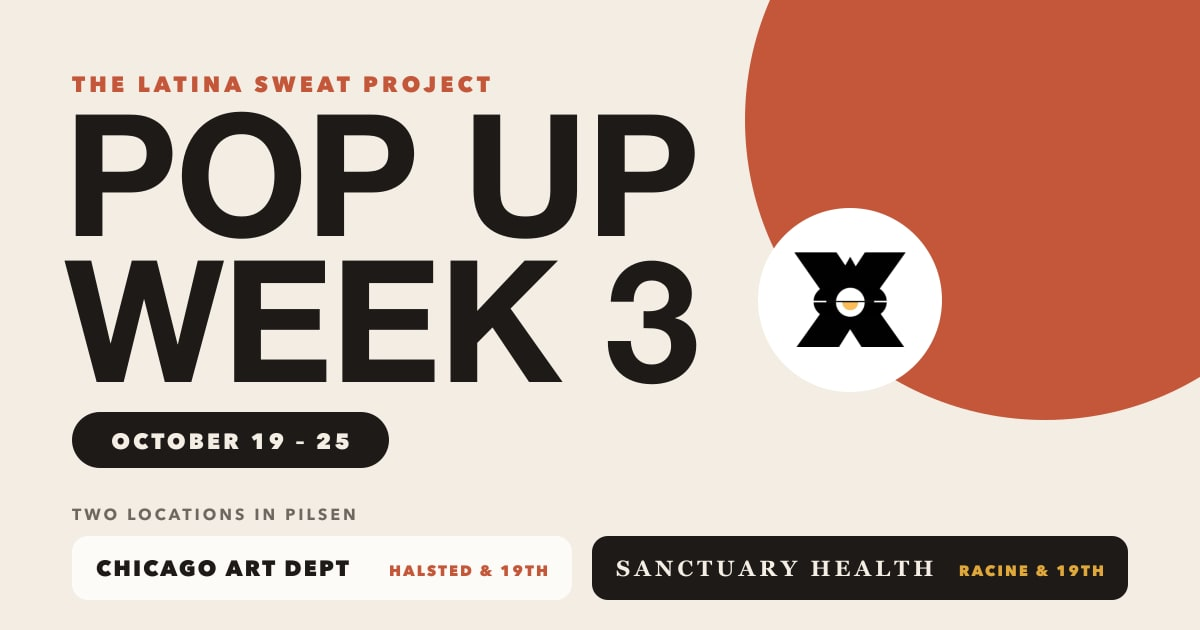
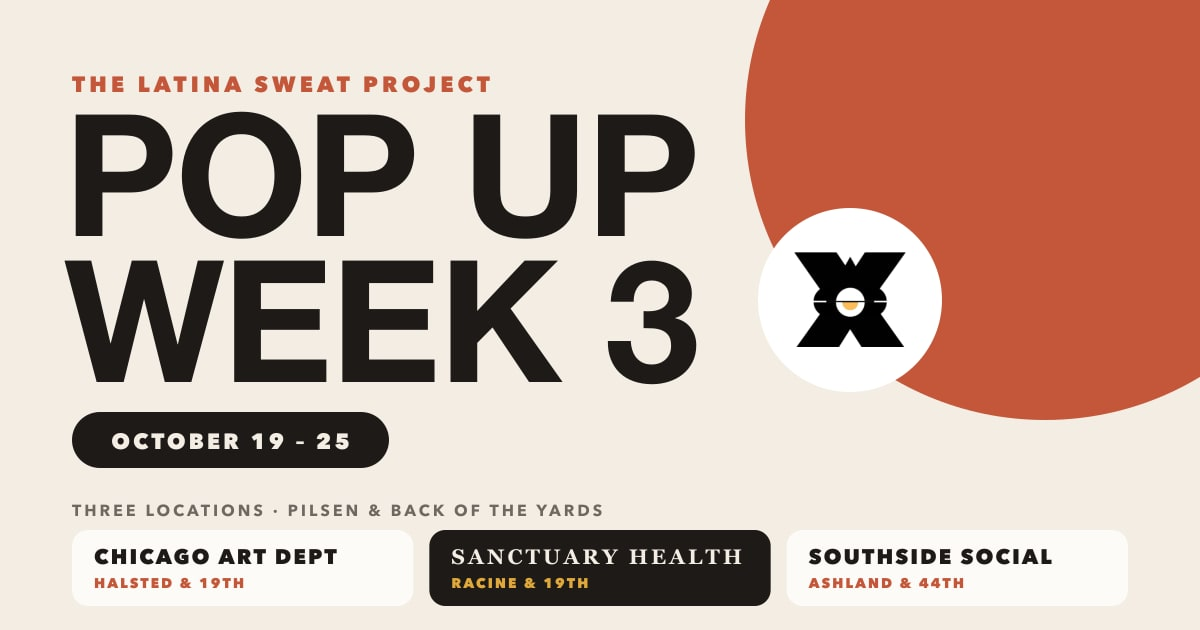
Pop-ups: publicized on every relevant surface (events, nav, /links, headline, Week 3 share image)
- Week 3 headline "LSP Pop Up · Pilsen & Back of the Yards" (data); /popup hero
  headline + body flip per week in the browser; /links reads week.headline
- PopUpWeekBand: later weeks say "This week LSP is pop-up"; new "Coming up"
  line to the next week (/popup?week=N), also on the /links card
- Homepage events carousel leads with the current Pop Up week card
- Nav "Pop-Ups" (desktop), "Pop-Up Classes" (mobile menu, footer) while active
- /finishline: past jump buttons hide; closing band points to /popup
- /links Spanish dates month-aware (Week 4: 26 Oct – 1 Nov, Dom 1 Nov)
- "around Pilsen" -> "around Pilsen and nearby"; default meta drops "Free"
- render-popup-og.mjs three-venue row; og-popup-week3.jpg regenerated
- About New Chapter line links to /popup; design.md note

Changed region(s): [[0.0617, 0.7841, 0.9558, 0.9651], [0.0617, 0.8746, 0.3083, 0.9349]]

diff --git a/src/data/transition.js b/src/data/transition.js
@@ -71,7 +71,7 @@ export const studioTransition = {
     heading: "Where to move with us",
     body:
       "This fall, LSP is popping up across the neighborhood: classes and " +
-      "community programming around Pilsen. Reserve your spot for each " +
+      "community programming around Pilsen and nearby. Reserve your spot for each " +
       "class below.",
     // Shown once every dated pop-up has wrapped (and as the closing line
     // while they are live), so the section never reads as an empty box.
@@ -79,7 +79,7 @@ export const studioTransition = {
     moreLineTail: "on Instagram for new dates and locations.",
     pastBody:
       "This fall, LSP is popping up across the neighborhood: classes and " +
-      "community programming around Pilsen.",
+      "community programming around Pilsen and nearby.",
     instagramHandle: "@latinasweatproject",
     instagramUrl: "https://www.instagram.com/latinasweatproject/",
   },

diff --git a/src/data/popUpWeek3.js b/src/data/popUpWeek3.js
@@ -37,6 +37,9 @@ export const popUpWeek3 = {
   ogImage: "images/popup/og-popup-week3.jpg",
   ogImageAlt:
     "Pop Up Week 3, October 19 – 25: LSP classes at Chicago Art Department and Sanctuary Health in Pilsen and Southside Social in Back of the Yards.",
+  // Week 3 reaches Back of the Yards (Southside Social), so the headline
+  // names both neighborhoods; every surface reads week.headline.
+  headline: "LSP Pop Up · Pilsen & Back of the Yards",
   // Week 1's body says "Two locations"; this week has three.
   body:
     "Programming at our studio is paused, so this week the classes come to the " +

diff --git a/design.md b/design.md
@@ -248,6 +248,7 @@ Campaign identity for LSP's pop-up classes after the 949 W 16th St studio closed
 - **Week switcher (Oct 7, 2026; replaces the stacked weeks):** `src/components/PopUpWeekSwitcher.astro` renders one `PopUpWeekSchedule` panel per entry of `popUpWeeks` (past weeks included) and shows ONE at a time. Header row: a round outlined arrow button, the week label ("Pop Up Week 2 · Oct 12 – 18"; two centred lines on phones), the other arrow; under the label a terracotta status tag ("This week" = live, "Next week" = starts within the coming calendar week, "Last week" = ended within the previous one, else "Coming up" / "Past week"; `floor((now - weekStart) / 7 days)`) and 6px dots. Arrows are real `<button>`s with aria-labels and `aria-disabled` (dimmed to 25%, focus stays) at the ends; Left/Right keys while focus is in the header row; a horizontal swipe (pointer events, 40px, mostly horizontal) that STARTS on the header row (`touch-action: pan-y`), so it never fights vertical scroll or the location carousel. Panels: `role="group"`, `aria-roledescription="week"`, `aria-label`, real `hidden` when not shown; 200 ms fade/slide in, none under reduced motion. **Default week** = first week not yet ended (live, else next upcoming), else the last week, computed at build time AND in the browser from each panel's `data-week-start/end`, so the Oct 11 to 12 flip needs no rebuild. A past week stays one tap back: its Zeffy CTAs hide (build time / `data-popup-hide-after`), its `wrappedLine` shows above the cards (`data-popup-show-after` = its end) and the teachers kicker reads "Your teachers · Oct 5 – 11". **URL state** (`urlState`, default on): `?week=2` or `#week-2` selects a week on load (`#week-N` also scrolls to the switcher); a hash naming a card anchor inside a week selects that week; switching rewrites the URL to `#week-N` via `history.replaceState` (drops `?week`, no scroll). The build-time default week keeps the plain card anchors (`#chicago-art-department`, `#sanctuary-health`, which the /popup hero jump buttons use), other weeks get `-week-N`; clicking an in-page link into a hidden week selects it first. Tracking: arrows carry `data-conversion-event="popup_week_switch"` (Layout's generic tracker) with `data-conversion-context` (`popup_page_week_switch`, `schedule_page_week_switch`, `classes_page_week_switch`), `-direction` and the destination `-popup-week`; a press on a disabled arrow sends nothing; swipe/keys call `window.trackConversion` with `method`. Used on `/popup` (h2 label) and in `StudioTransitionSection` on `/schedule` + `/classes` (h3, inside the cream panel, which carries `data-popup-hide-when-past`; the per-week eyebrow/headline/body there were dropped as duplicates of the section intro). The compact surfaces keep showing the current week only; their link to /popup now reads "All weeks and the full schedule" (`PopUpWeekBand`) / "All weeks on the pop-up page" (`/links`).
 - **Weeks 3 and 4 (Oct 12, 2026):** `popUpWeek3.js` (Oct 19 – 25) and `popUpWeek4.js` (Oct 26 – Nov 1) join the list, so the switcher has four weeks and hide-when-past moves to Nov 1 23:59:59 CST. Day labels now come from `dayLabels()` in `popUpShared.js` (any date, "Nov 1"), and `startsAt` offsets from `chicagoOffset()` (Nov 1 is CST, -06:00); `closedDay("MM-DD")` builds a "No classes" row. Week 4 Chicago Art Dept has no weekend classes: the days are simply not listed and a `noticeLine` says so. The teachers kicker reads "Your teachers next week" only within 7 days of a week's start, else "Your teachers · <dates>". New teachers: Fabiola, Juanita, Gigi, Efren, Ariel (full roster names pending a MarianaTek lookup); bubbles `hl_popup3.png` / `hl_popup4.png`, OG `og-popup-week3.jpg` / `-week4.jpg`.
 - **Three-location weeks (Oct 12, 2026):** Week 3 adds **Southside Social** (4432 S Ashland Ave, Back of the Yards; one class, Thu Oct 22 8 AM Yoga Sculpt, Andrea Fuentes; pay what you can, up to 40 mats) as a third `popUpWeek3Locations` entry: paper card like Chicago Art Dept, text lockup only (no venue logo). Surfaces never hardcode two: `locationsSummary(week)` in `popUpShared.js` gives the count copy ("Three locations" / "Tres lugares") and the neighborhoods (from `neighborhood`, else the `shortLabel` prefix: "Pilsen & Back of the Yards"), used by the schedule kicker, the `/popup` hero pill (now per week, flipping with the hero), the `PopUpWeekBand` body and the `/links` card eyebrow; Week 3 overrides `body` ("Three locations, one week"). `PopUpWeekSchedule` goes 3-up at lg (`pu-loc-scroller--3`: narrower time column, slightly smaller lockup) and keeps 2-up for two-location weeks; the phone toggle gets one segment per location and uses each location's short `toggleLabel` ("Art Dept" / "Sanctuary" / "Southside") when there are three. `PopUpWeekBand` mini-cards go 3-up at lg. A single-class location's foot reads "1 class · 45 min". `/checkin` lists it under Week 3 with its own signed Zeffy check-in link (form `lsp-at-southside-social`, id 75ebd835-7d20-4318-a9d4-ae1f71a0275b).
+- **Coverage pass (Oct 12, 2026; audit in `marketing/popup-week3-4/COVERAGE-AUDIT.md`):** (1) `headline` is per week (Week 3: "LSP Pop Up · Pilsen & Back of the Yards"); `/popup` renders one windowed headline + body per week inside the single h1 / p, `/links` reads `week.headline` (two block lines when long). (2) `PopUpWeekBand` uses "This week LSP is pop-up" for every later windowed band (they only show while live) and adds a **"Coming up"** line for the next week in `popUpWeeks` -> `/popup?week=N` (context `<context>_next_week`); `/links` card has the same line (`links_popup_card_next_week`). (3) Homepage events carousel leads with a windowed Pop Up week card (the week's OG image, `home_events_carousel_popup`); the dots script skips cards outside their `data-popup-show-after` / `-hide-after` window. (4) Nav: "Pop-Ups" (desktop, after Classes), "Pop-Up Classes" (mobile menu, footer) -> /popup while `isPopUpSeriesActive()` at build time. (5) `/finishline`: past events drop their hero jump button (build + `data-finishline-past-at`); the closing band points to /popup while pop-ups are not past. (6) `/links` Spanish dates are month-aware (`26 Oct – 1 Nov`, `Dom 1 Nov`). (7) Generic "around/across Pilsen" lines read "around Pilsen and nearby" (transition.js, /popup, /contact, /pricing, homepage). (8) `render-popup-og.mjs` draws a three-venue row (kicker from `locationsSummary`, two-line text lockups) for three-location weeks; two-location weeks are byte-identical. Title / description / OG on /popup stay build-time (no scheduled rebuild).
 - **Phone location carousel (below md, 768px):** inside each `PopUpWeekSchedule`, the two cards become a native horizontal snap scroller (`scroll-snap-type: x mandatory`, one card per width, no scrollbar, the deep card shadow dropped because the scroller would clip it) under a two-button segmented toggle ("Chicago Art Dept" / "Sanctuary Health", ink pill = `aria-pressed`) that replaces the "Two locations" kicker on phones. The toggle scrolls to the card; an IntersectionObserver (60%) keeps it in step with swipes; the scroller takes the active card's height (ResizeObserver) so the shorter card leaves no gap. md and up: unchanged (stacked, side by side from lg), toggle hidden. Week and location are independent axes: week = header row arrows/swipe, location = toggle/swipe on the cards.
 - **Cancelled classes (Oct 9, 2026):** a session can be cancelled without deleting it: `session(..., { cancelled: true })` (trailing options object of `makeSessionFactory`). `/popup` (and `/schedule`, `/classes`) render it in its day with time and class struck through and dimmed, a terracotta "Cancelled" tag and no avatars/names; `/links` rows likewise. It never gets `data-popup-starts`, so it is never "Next up" (cards, `PopUpWeekBand` next-up line, `/links`), and `activeSessions(loc)` / `locationInstructors` / `sessionCount` leave it out of the teachers rows and class counts (never use `loc.sessions.length`). A day with only cancelled classes still shows. A location may carry `noticeLine`, shown on its card above the classes while the week is not past (first use: CAD Sun Oct 11 10 AM, marathon day).
 - OG + bubble: `node scripts/render-popup-og.mjs [N] [--out dir]` (replaces `render-popup-week1-og.mjs`; Week 1 output is byte-identical) writes `public/images/popup/og-popup-weekN.jpg` and the week's highlight bubble.
